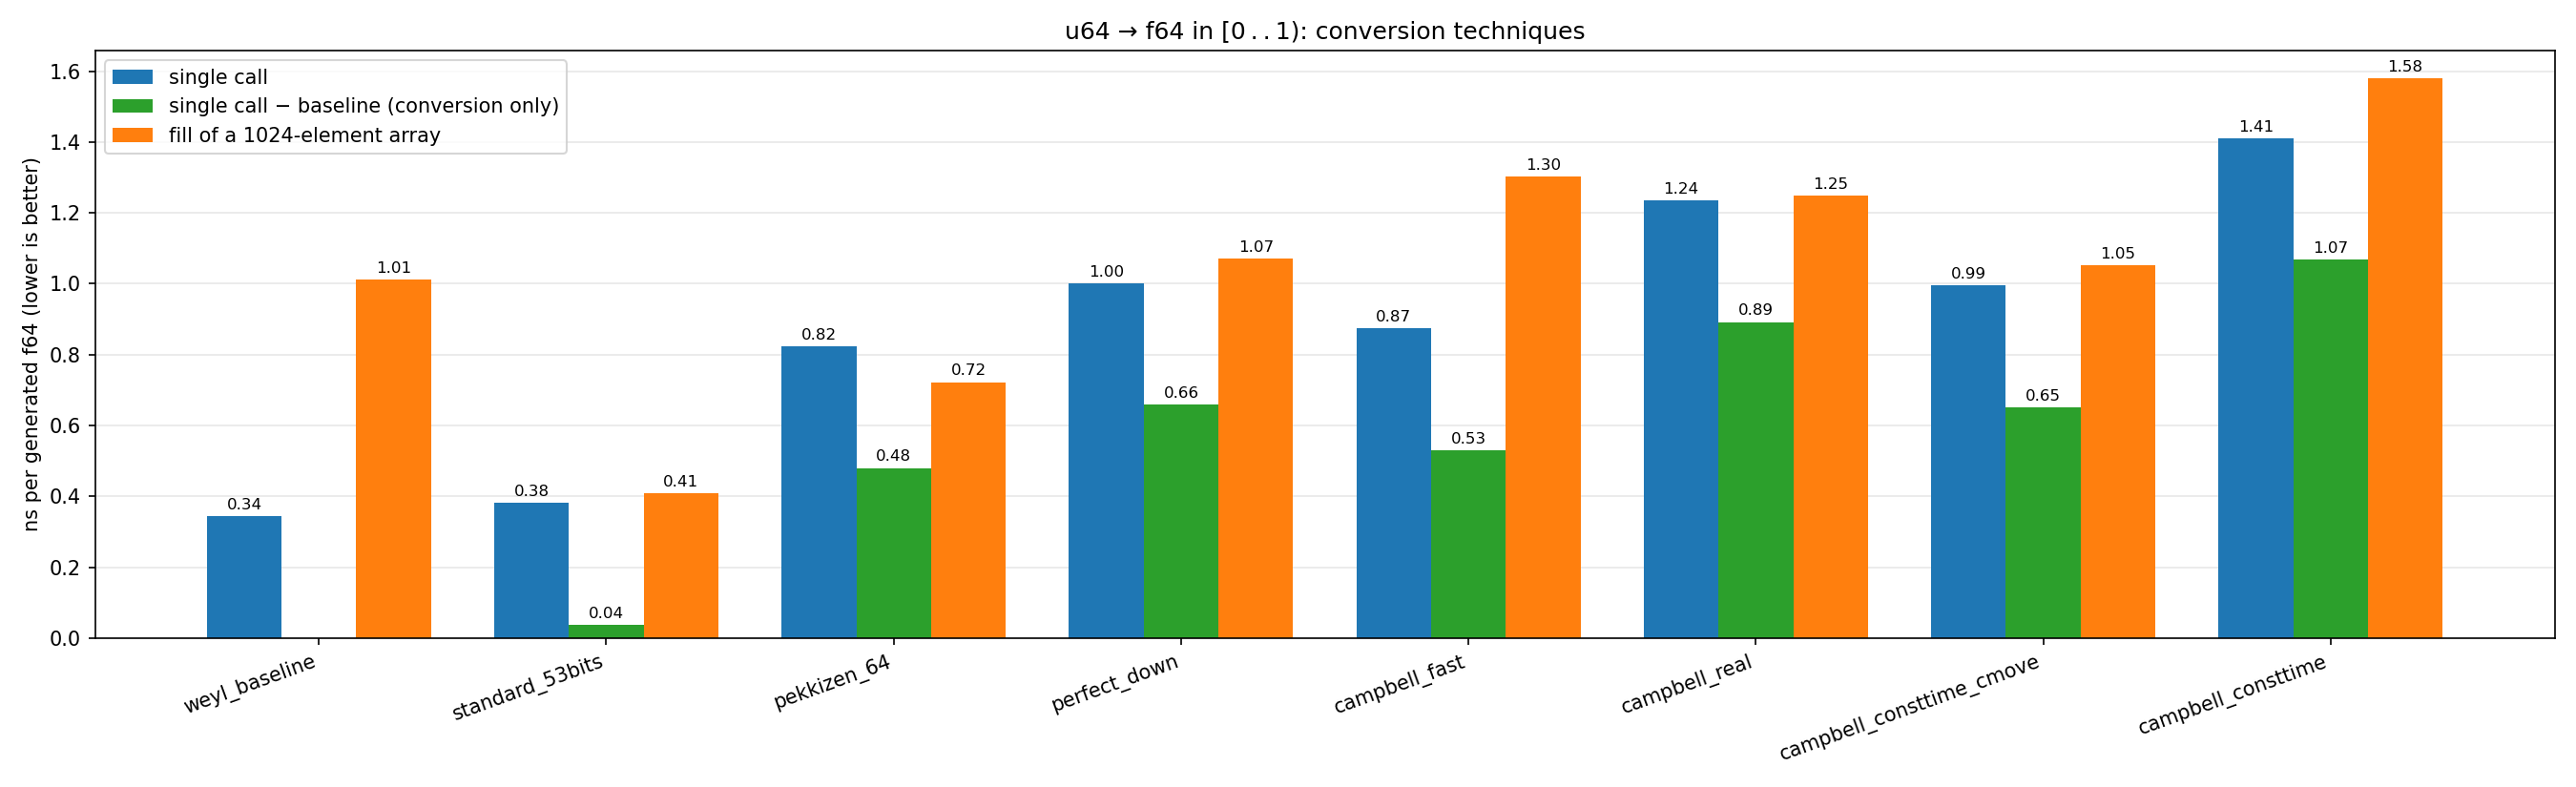
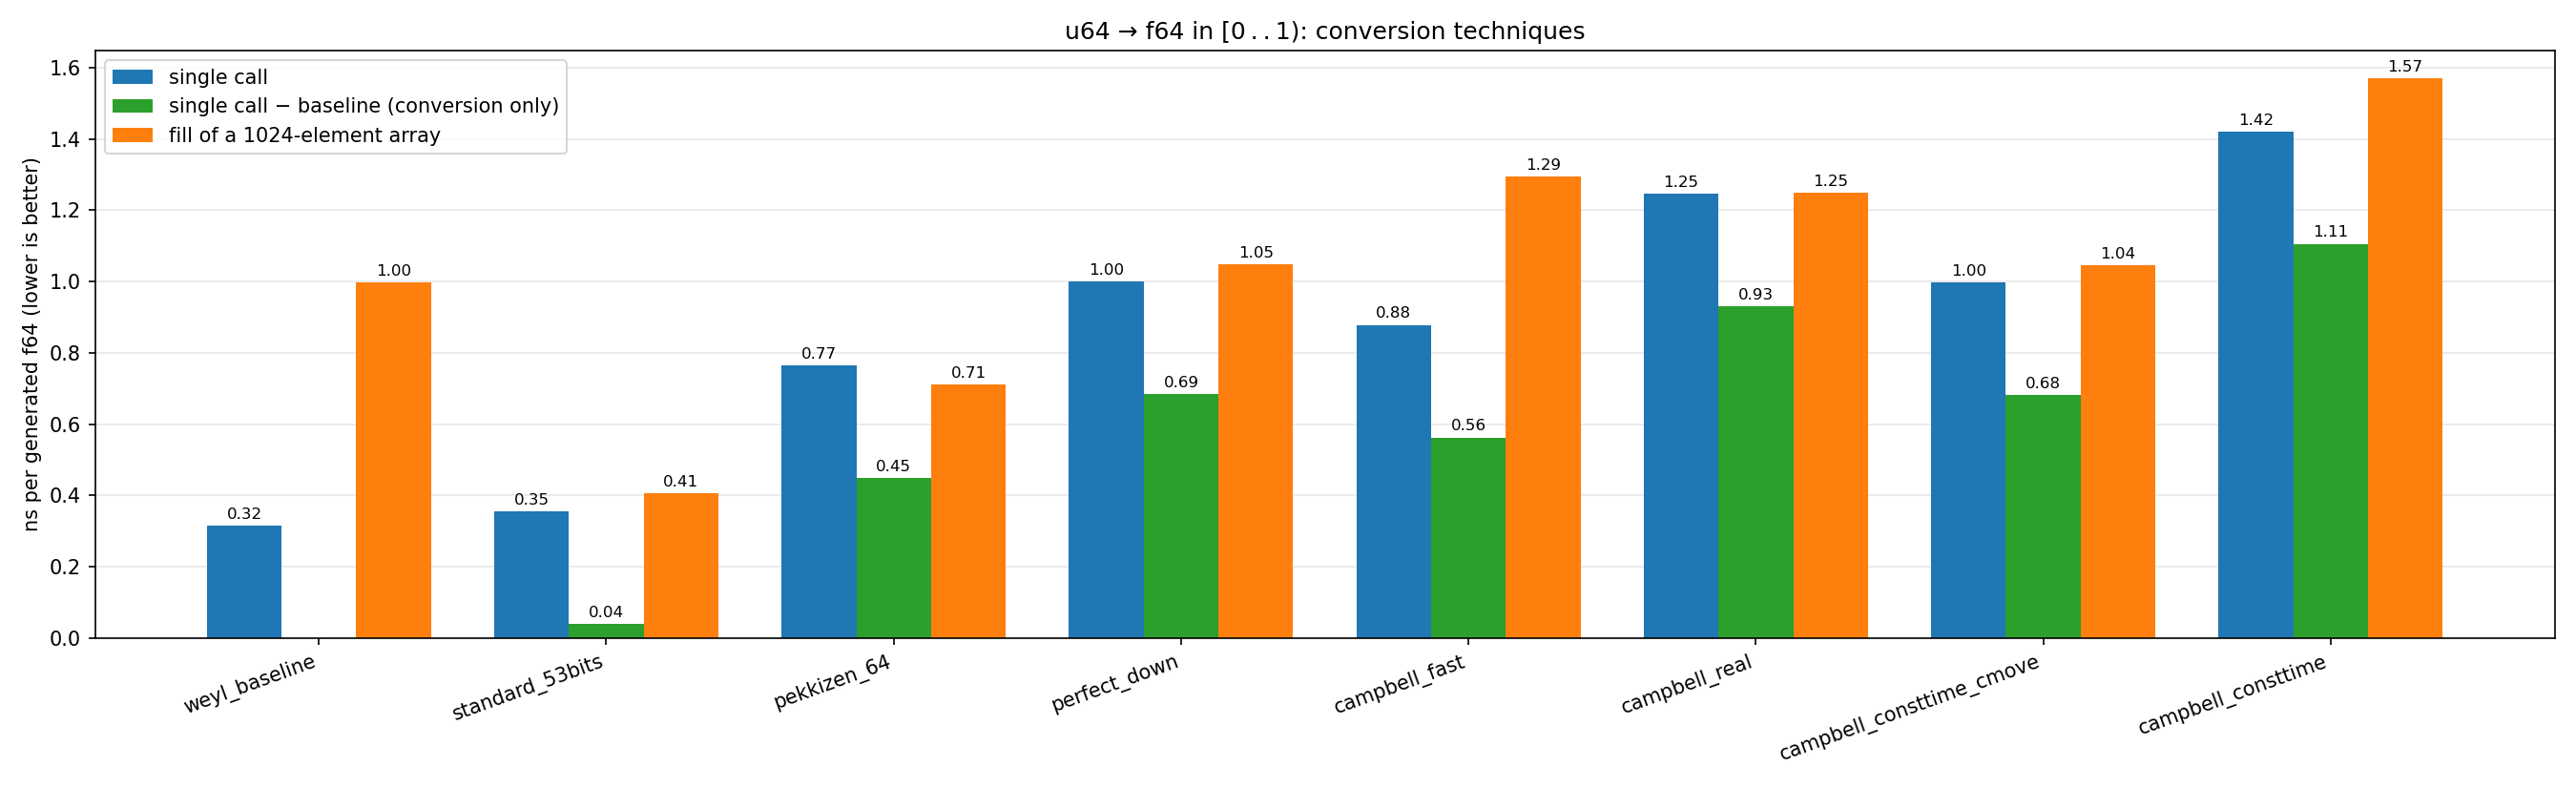
More figures

diff --git a/README.md b/README.md
@@ -75,17 +75,26 @@ python/plot_bench.py bench.txt -o bench.pdf`.
 
 ## Results
 
-### ARM M1
-
-![ARM M1](img/M1.png)
-
 ### AMD Ryzen 9 5950X
 
 ![AMD Ryzen 9 5950X](img/zen4.jpg)
 
-### Intel®️ Xeon®️ X5660 @2.80 GHz
+### 12th Gen Intel® Core™ i7-12700KF @3.60 GHz
 
-![Intel®️ Xeon®️ X5660 @2.80 GHz](img/XeonX5660.png)
+![12th Gen Intel® Core™ i7-12700KF @3.60 GHz](img/i7.png)
+
+### Intel® Xeon® X5660 @2.80 GHz
+
+![Intel® Xeon® X5660 @2.80 GHz](img/XeonX5660.png)
+
+### Apple M1 Max @2.50 GHz
+
+![Apple M1 Max @2.50 GHz](img/M1.png)
+
+## Acnknowledgments
+
+I would like to thank Dima Badizadegan, Taylor C. Campbell and Frédéric Goualard
+for interesting discussions and a lot of useful pointers,
 
 ## Licensing
 